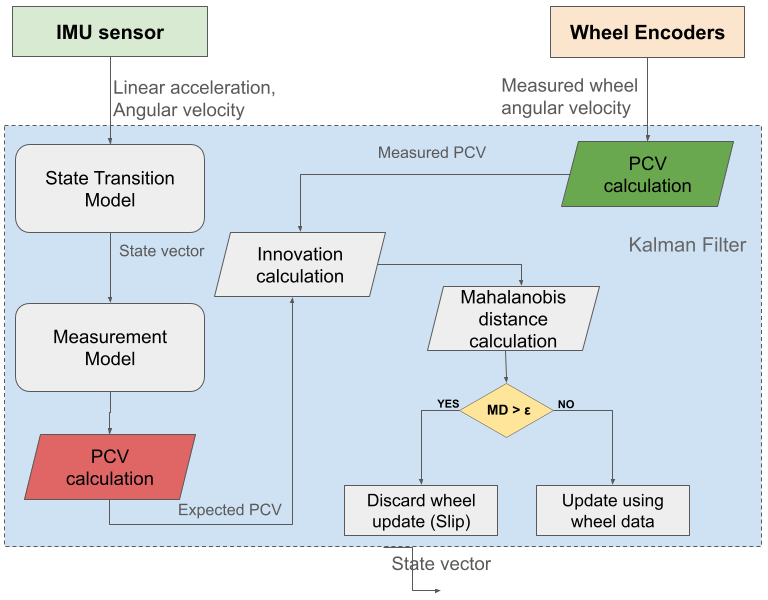
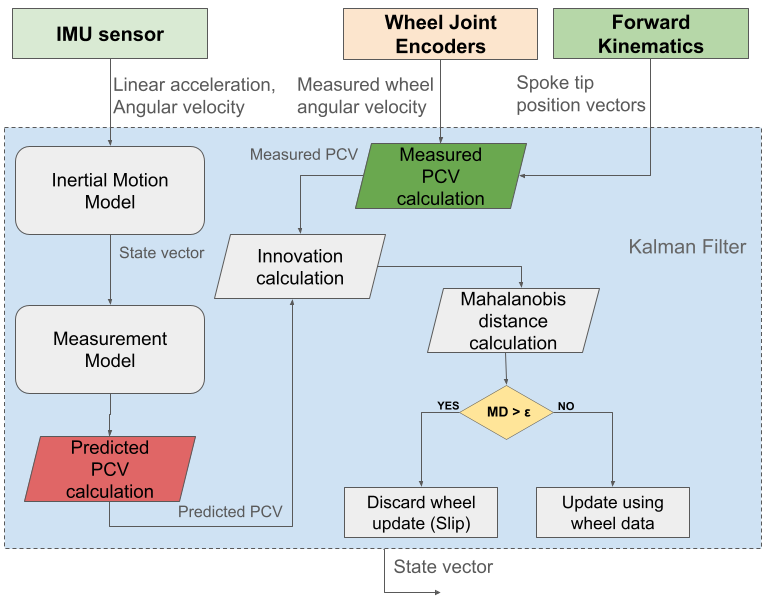
[quick-commit] started implementation chapter and include the UML diagram for the proposed apporach

diff --git a/chapters/ch05_methodology.tex b/chapters/ch05_methodology.tex
@@ -3,39 +3,40 @@
 \begin{document}
     \chapter{Methodology} \label{chap:methodology}
     
-    This chapter provides details on the proposed approach to the odometry estimation problem mentioned in the problem statement Chapter~\ref{chap:problem_statement}. The details of \gls{inekf}-based odometry, the proposed measurement update step for the \gls{inekf}, the Mahalanobis-distance-based measurement rejection, the contact spoke estimation, and the limitations of the proposed approach are presented in this chapter. The overview of the approach is explained in Section~\ref{sec:approach_overview}.
-    
+    This chapter provides details on the proposed approach to improve the odometry estimation in the coyote~3 rover system. The details of \gls{inekf}-based odometry, the proposed measurement update step for the \gls{inekf}, the Mahalanobis-distance-based measurement rejection, the contact spoke estimation, and an overview of the proposed approach are presented in this chapter. 
     
     \section{Overview of the Proposed Approach} \label{sec:approach_overview}
     
-    
-    \todo[inline]{USE the image with the coordinate frame here}
-
     \begin{figure}[!h]
-        \includegraphics[width=\linewidth]{media/plots/thesis_proposed_approach.png}
-        \caption{Overview of the proposed approach for Contact Velocity Odometry estimation}
+        \begin{center}
+        \includegraphics[width=0.8\linewidth]{media/plots/thesis_proposed_approach.png}
+        \caption{Flow diagram to present an overview of the proposed approach.}
         \label{fig:proposedApproachOverviewFlowDiagram}
+        \end{center}
     \end{figure}
     
-    \todo[inline]{Flow diagram need to be explained}
-
+    \todo[inline]{Make this flow diagram standard and use the caption to link to different section that is show in the chart and that is explained below}
     
     \begin{figure}[!h]
-        \includegraphics[width=\linewidth]{media/plots/approach_explanation_image.png}
-        \caption{Predicted and Measured PCV overlaid on a wheel}
+        \begin{center}
+        \includegraphics[width=0.8\linewidth]{media/plots/approach_explanation_plot.png}
+        \caption{Predicted and Measured PCV overlaid on the Front Left wheel of the Coyote~3 rover.}
         \label{fig:approachPCVexplanation}
+        \end{center}
     \end{figure}
     
-    The proposed approach uses IMU data to propagate the filter state and wheel encoder data to construct the measured PCV. This section explains the intuition behind the proposed approach. The predicted \gls{pcv} vector is calculated for every spoke of each wheel. To simplify the explanation, only one wheel and its spokes are considered here.
+    The proposed approach uses \gls{imu} data to propagate the filter state and joint encoder data to construct the measured PCV. This section explains the intuition behind the proposed approach. The predicted \gls{pcv} vector is calculated for every spoke of each wheel. To simplify the explanation, only one wheel and its spokes are considered here. Figure~\ref{fig:proposedApproachOverviewFlowDiagram} presents a flow diagram, providing an outline of the proposed approach, the simplified calculation blocks inside the \gls{inekf}, the data flow from sensors and kinematics into the \gls{inekf} and the inconsistent wheel measurement rejection approach.
     
     Let us take a scenario where the rover moves forward while rotating slightly on its yaw (vertical) axis, so the trajectory from the top-view looks like a part of a circle. During this motion, we need to estimate the position and orientation of the rover in the world frame. The origin of the world frame, also referred to as the odometry frame, usually lies at the location where the rover starts its motion.
     
-    The \gls{inekf} estimates the pose of the rover and other elements in its state vector \ref{eq:stateVector}. To estimate these elements, the filter uses the \gls{imu} data to propagate the state vector elements forward in time. Let us define this propagated state $\hat{X}^{-}_{k+1}$ at the time step $k+1$. Let the current state be $X_{k}$ and the current time step be $k$. This propagation of state is done using an inertial motion model driven by the \gls{imu} measurement. This motion model uses the bias corrected gyroscope and accelerometer values to update the orientation, position and velocity of the rover. Since, this predicted state is calculated only with \gls{imu} driven motion model, it accumulates error due to sensor drift. This error needs to be corrected by an independent measurement source. In the proposed approach the correction is done using the wheel encoder measurements.
+    The \gls{inekf} estimates the pose of the rover and other elements in its state vector \ref{eq:stateVector}. To estimate these elements, the filter uses the \gls{imu} data to propagate the state vector elements forward in time. Let us define this propagated state $\hat{X}^{-}_{k+1}$ at the time step $k+1$. Let the current state be $X_{k}$ and the current time step be $k$. This propagation of state is done using an inertial motion model driven by the \gls{imu} measurement. This motion model uses the bias corrected gyroscope and accelerometer values to update the orientation, position and velocity of the rover. Since, this predicted state is calculated only with \gls{imu} driven motion model, it accumulates error due to sensor drift. This error needs to be corrected by an independent measurement source. In the proposed approach the correction is done using the joint encoder measurements.
+    
+    Figure~\ref{fig:approachPCVexplanation} presents the front left wheel of the Coyote~3 rover and the body frame coordinate system. The wheel is rotation in the clock-wise direction resulting in rover moving forward. The purpose of this figure is to show the predicted and measured \gls{pcv} vectors expressed in body frame so that it may improve the understanding of the following explanations. 
     
     Using the predicted state $\hat{X}^{-}_{k+1}$, the velocity of each spoke tip can be calculated in the body frame. The details of the predicted \gls{pcv} are provided in Section~\ref{subsec:predictedPCV}.
-    To understand the predicted \gls{pcv}, we calculate the velocity that each spoke tip would have due to the predicted body linear velocity, the bias-corrected body angular velocity from \gls{imu}, and the spoke-tip position relative to the body frame. This calculation generates a velocity vector for each spoke tip of the selected wheel, shown as red arrows in Figure~\ref{fig:approachPCVexplanation}.  \todo[inline]{Modify the description of velocity vectors when the image is updated}
+    To understand the predicted \gls{pcv}, we calculate the velocity that each spoke tip would have due to the predicted body linear velocity, the bias-corrected body angular velocity from \gls{imu}, and the spoke-tip position relative to the body frame. This calculation generates a velocity vector for each spoke tip of the selected wheel, shown as red arrows in Figure~\ref{fig:approachPCVexplanation}. 
     
-    To correct the predicted state $\hat{X}^{-}_{k+1}$, the measured \gls{pcv} is calculated using the wheel encoder measurements. The details of the measured \gls{pcv} are provided in Section~\ref{subsec:measuredPCV}. Similar to the predicted \gls{pcv}, we calculate the measured \gls{pcv} for all the spokes of a wheel. The measured \gls{pcv} is calculated from the wheel angular velocity about its rotation axis and the position vector from the wheel center to the spoke tip. The resulting measured \gls{pcv} points along the direction of wheel rotation and is perpendicular to the position vector from the wheel center to the spoke tip. These vectors are shown as the green arrow in Figure~\ref{fig:approachPCVexplanation}. This measured \gls{pcv} is initially expressed in the wheel frame and later transformed into the body frame.
+    To correct the predicted state $\hat{X}^{-}_{k+1}$, the measured \gls{pcv} is calculated using the joint encoder measurements. The details of the measured \gls{pcv} are provided in Section~\ref{subsec:measuredPCV}. Similar to the predicted \gls{pcv}, we calculate the measured \gls{pcv} for all the spokes of a wheel. The measured \gls{pcv} is calculated from the wheel angular velocity about its rotation axis and the position vector from the wheel center to the spoke tip. The resulting measured \gls{pcv} points along the direction of wheel rotation and is perpendicular to the position vector from the wheel center to the spoke tip. These vectors are shown as the green arrow in Figure~\ref{fig:approachPCVexplanation}. This measured \gls{pcv} is initially expressed in the wheel frame and later transformed into the body frame.
         
     Once both the predicted and measured \gls{pcv} are calculated, the spokes assumed to be in contact need to be selected and used to update the state vector. This can be done in two ways as explained in Section~\ref{sec:ContactEstimation}. The proposed approach uses the \gls{lf} method to select the spokes that are used in the filter update step. These selected spoke are used to calculate the residual as discussed in Section~\ref{subsec:residual}. After the residual is calculated, the covariance of the residual is calculated using Equation~\ref{eq:innovationCovariance}. This covariance is then used to calculate the squared Mahalanobis distance. This distance represents how surprised the filter is to receive the measured \gls{pcv}. 
     
@@ -43,23 +44,18 @@
     
     The calculated \gls{md} is also used to estimate the spokes that are likely to be in contact. The spoke with the lowest \gls{md} is selected to be most likely in contact. This can be seen in Figure~\ref{fig:approachPCVexplanation}, where the spoke estimated to be in contact with the ground has the predicted and measured \gls{pcv} vectors that are consistent with each other. This is reflected by a low residual and a low \gls{md} value. The other spokes that have inconsistent predicted and measured \gls{pcv} vectors have higher residuals and higher \gls{md} values. The contact estimation is explained in detail in Section~\ref{subsec:mahala-based-contact-estimation}. 
     
-    In the implemented filter update, the \gls{lf} method is used to select the contact spokes. The \gls{md} is then used to reject inconsistent spoke measurements before the update. In addition, the \gls{md} values can also be used as an alternative contact estimation measure, as explained in Section~\ref{subsec:mahala-based-contact-estimation}.
-    
-    
+    In the implemented filter update, the \gls{lf} method is used to select the contact spokes. The \gls{md} is then used to reject inconsistent spoke measurements before the update. In addition, the \gls{md} values based contact estimation is a possible alternative, as explained in Section~\ref{subsec:mahala-based-contact-estimation}.
     
     \section{Invariant EKF based Odometry}
     
-    The \gls{inekf} is an extension of the Extended Kalman Filter whose state evolve on Lie groups. In the \gls{inekf}, the estimation error is defined as an invariant error formulation, such as left or right invariant error rather than Euclidean vector subtraction. The details on the \gls{inekf} and the invariant error are explained in Chapter~\ref{chap:background}. 
+    The \gls{inekf} is an extension of the Extended Kalman Filter whose state evolve on Lie groups. In the \gls{inekf}, the estimation error is defined as an invariant error formulation, such as left or right invariant error rather than Euclidean vector subtraction. The details on the \gls{inekf} and the invariant error are explained in Chapter~\ref{chap:background}. The proposed approach for odometry estimation in \gls{rwr} uses the proprioceptive sensors available on the rover. The \gls{imu} and the joint encoders are used in the fusion process. Kalman filters operate in two steps: the propagation step and the correction step. In this thesis, we use the \gls{imu} data for the propagation step and the joint encoder data is used to construct the measurement used in the correction step. The \gls{inekf} estimates the pose of the rover's body frame with respect to the world frame, the velocity of the rover and the \gls{imu} biases. The filter's state vector and the details on the propagation step are provided in the following subsections.
     
     % This makes the estimation error independent of the frame of reference. The invariance property of the \gls{inekf} is explained in Chapter~\ref{chap:background}. 
         
     % The advantage of using \gls{inekf} over standard EKF is that the \gls{inekf} has better convergence properties.
     
     % \todo[inline]{The invariance part needs to be explained, and the explanation related to Lie group and their advantage should also be explained with reference }
-    
-    
-    The proposed approach for odometry estimation in \gls{rwr} uses the proprioceptive sensors available on the rover. The \gls{imu} and the wheel encoders are used in the fusion process. Kalman filters operate in two steps: the propagation step and the correction step. In this thesis, we use the \gls{imu} data for the propagation step and the wheel encoder data is used to construct the measurement used in the correction step. The \gls{inekf} estimates the pose of the rover's body frame with respect to the world frame, the velocity of the rover and the \gls{imu} biases. The filter's state vector and the details on the propagation step are provided in the following subsections.
-
+        
     \subsection{Filter State Vector}    
     The state vector $X$ contains the quantities that need to be estimated by the filter. In this work, the state vector contains position, orientation, velocity and \gls{imu} sensor biases. These quantities are required to estimate the rover motion. The filter state is constructed as shown in the Equation~\ref{eq:stateVector}. 
     
@@ -75,7 +71,7 @@
     
     \section{Measurement Update Step}
     
-    This section presents the core methodology of the proposed approach. For the fusion process, the \gls{pcv} vector is calculated. This is the velocity of a wheel spoke tip expressed in the body frame in a \gls{rwr} system. The \gls{pcv} can also be referred to as spoke-tip velocity or contact velocity. The term "Potential" comes from the possibility that any one of the spokes in a wheel can be in contact depending on the terrain. The \gls{pcv} is calculated in two forms. The \gls{pcv} vector, calculated from the filter state vector, after the prediction step of the \gls{inekf} is called predicted \gls{pcv}. In the update step, the \gls{pcv} vector is calculated from the wheel encoder measurements called measured \gls{pcv}. Within the \gls{inekf}, the predicted and measured \gls{pcv} vectors are used to calculate the residual, also known as the innovation.
+    This section presents the core methodology of the proposed approach. For the fusion process, the \gls{pcv} vector is calculated. This is the velocity of a wheel spoke tip expressed in the body frame in a \gls{rwr} system. The \gls{pcv} can also be referred to as spoke-tip velocity or contact velocity. The term "Potential" comes from the possibility that any one of the spokes in a wheel can be in contact depending on the terrain. The \gls{pcv} is calculated in two forms. The \gls{pcv} vector, calculated from the filter state vector, after the prediction step of the \gls{inekf} is called predicted \gls{pcv}. In the update step, the \gls{pcv} vector is calculated from the joint encoder measurements called measured \gls{pcv}. Within the \gls{inekf}, the predicted and measured \gls{pcv} vectors are used to calculate the residual, also known as the innovation.
     
     \subsection{Predicted Potential Contact Velocity} \label{subsec:predictedPCV}
     
@@ -107,7 +103,6 @@
         v_{pc, measured}^{body} = R_{wheel}^{body} (\omega_{wheel}^{wheel} \times {}^{}r_{pc}^{wheel})
         \label{eq:MeasuredPCVCalculation}
     \end{equation}
-    
 
     From the rover's body frame of reference, $v_{pc, measured}^{body}$ represents the velocity of the ground moving under the point of contact. This is the same quantity as the $v_{pc, predicted}^{body}$, so the difference between them can be calculated as the residual. The $\omega_{wheel}^{wheel}$ is the angular velocity of the wheel expressed in the wheel frame. The $r_{pc}^{wheel}$ is the position vector of the \gls{pc} from the wheel center expressed in the wheel frame. $R_{wheel}^{body}$ is the orientation of the wheel frame expressed in the body frame.
       
@@ -137,7 +132,6 @@
             \label{eq:gyroBiasRemoved}
         \end{equation}
 
-    
         \begin{equation}
             \xi = \begin{bmatrix}
             \delta R \\
@@ -171,16 +165,16 @@
         \end{equation}
         
         The validity of the measurement Jacobian is verified by comparing the analytical Jacobian with a numerical Jacobian. The numerical Jacobian is calculated by perturbing the state vector and calculating the change in the measurement function. The analytical and numerical Jacobians are found to be consistent with each other. The numerical jacobian calculation is provided in the appendix \ref{appendix:NumericalJacobianCalculation}. 
-        \todo[inline]{Provide the numerical jacobian calculation in the appendix}
+        % \todo[inline]{Provide the numerical jacobian calculation in the appendix}
        
         \section{Slip-aware Measurement Rejection}
         
-        The measured \gls{pcv}, calculated from the wheel encoder measurements, can be affected by wheel slip. This wheel slip can occur due to several factors such as slippery terrain, compliant terrain like soft sand, loose and uneven terrain like pebbles, inclined terrain, very high wheel speeds or a combination of these factors. The nature of slip and the details required to understand the wheel slip is discussed in Chapter~\ref{chap:background}. 
+        The measured \gls{pcv}, calculated from the joint encoder measurements, can be affected by wheel slip. This wheel slip can occur due to several factors such as slippery terrain, compliant terrain like soft sand, loose and uneven terrain like pebbles, inclined terrain, very high wheel speeds or a combination of these factors. The nature of slip and the details required to understand the wheel slip is discussed in Chapter~\ref{chap:background}. 
         
-        In the \gls{inekf} framework, the slip-induced inconsistencies may be identified when the measured \gls{pcv} vector calculated from the wheel encoders is inconsistent with the predicted \gls{pcv} computed from the filter state. This inconsistency can be calculated using the \gls{md}. 
+        In the \gls{inekf} framework, the slip-induced inconsistencies may be identified when the measured \gls{pcv} vector calculated from the joint encoders is inconsistent with the predicted \gls{pcv} computed from the filter state. This inconsistency can be calculated using the \gls{md}. 
         
-        The \gls{md} measures residual between a measurement and its predicted values weighted by the inverse residual covariance \cite{SITE-mathworks-mahalanobis}. The residual calculated in Section~\ref{subsec:residual} is used to calculate the \gls{md}. When the squared \gls{md} is higher than a threshold value (details are provided in the Implementation Chapter~\ref{chap:implementation})\todo[inline]{Include the chi2 threshold in the implementation chapter} then the measured \gls{pcv} is rejected from the update step, thereby preventing the inconsistent wheel encoder measurements from a slip event \cite{chang2014MahalanobisFormula}.
-        
+        The \gls{md} measures residual between a measurement and its predicted values weighted by the inverse residual covariance \cite{SITE-mathworks-mahalanobis}. The residual calculated in Section~\ref{subsec:residual} is used to calculate the \gls{md}. When the squared \gls{md} is higher than a threshold value (details are provided in the Implementation Chapter~\ref{chap:implementation}) then the measured \gls{pcv} is rejected from the update step, thereby preventing the inconsistent joint encoder measurements from a slip event \cite{chang2014MahalanobisFormula}.
+        % \todo[inline]{Include the chi2 threshold in the implementation chapter}
         \begin{equation}
         S = HPH^T + R
         \label{eq:innovationCovariance}
@@ -200,19 +194,17 @@
         \subsection{Lowest-Foot-based Contact Estimation}
         
         A geometrical method of estimating the contact spoke is by using the assumption that the spoke tip that has the lowest vertical position is in contact. This can be estimated using the robot kinematics and the joint positions of the wheel. The pose of each spoke with respect to the body frame can be calculated and the spoke in contact can be estimated. The \gls{rw} is constructed with five spokes so, geometrically there could be either one spoke in contact or two. The lowest-foot assumption can estimate only one foot as contact. For multi contact spoke estimation, we assumed a region of vertical position, if the spoke tip is within this region, then it is estimated as in contact. This assumption works well on a flat, solid terrain but on an inclined or rough terrain with obstacles, this assumption may not hold.
-                
               
         \subsection{Mahalanobis-Distance-based Contact Estimation} \label{subsec:mahala-based-contact-estimation}
         
-        The use of \gls{inekf} for odometry estimation provides an opportunity to estimate the spokes that are in contact. With the \gls{md} squared calculated in the previous section, the contact spokes can be estimated by calculating the \gls{md} squared value for each spoke and selecting the spoke with the lowest \gls{md} squared as the spoke in contact. This is based on the fact that, the spoke with lowest \gls{md} squared value's predicted and measured \gls{pcv} will be consistent compared to the other spokes with higher \gls{md} squared value. This method can also be used to estimate multiple contact spokes by selecting the spokes with \gls{md} squared value below a certain threshold. 
+        The use of \gls{inekf} for odometry estimation provides an opportunity to estimate the spokes that are in contact. With the \gls{md} squared calculated in the previous section, the contact spokes can be estimated by calculating the \gls{md} squared value for each spoke and selecting the spoke with the lowest \gls{md} squared as the spoke in contact. This is based on the fact that, the spoke with lowest \gls{md} squared value's predicted and measured \gls{pcv} will be consistent compared to the other spokes with higher \gls{md} squared value. This method can also be used to estimate multiple contact spokes by selecting the spokes with \gls{md} squared value below a certain threshold. The implementation details related to the approach discussed in this chapter is presented in the Implementation Chapter~\ref{chap:implementation}.
         
-        \todo[inline]{Do we need more explanation on the contact estimation? Probably}
-        
-        
+        % \todo[inline]{Do we need more explanation on the contact estimation? Probably}
+                
 
-        \section{Limitations of the Proposed Approach}
+        % \section{Limitations of the Proposed Approach}
         
-        The limitations of the proposed approach are discussed in this section. 
+        % The limitations of the proposed approach are discussed in this section. 
 
         
         

diff --git a/chapters/ch08_results_and_discussion.tex b/chapters/ch08_results_and_discussion.tex
@@ -4,42 +4,7 @@
     \chapter{Evaluation and Results} \label{chap:resultsanddiscussion}
     This chapter provides the information on the experimental setup and evaluation techniques used to evaluate the Contact Velocity Odometry.
 
-    \section{Experiment Description}
-
-    The Experimentation to evaluate the proposed approach is done by collecting the data using the Coyote3 rover in a set of trajectories. This data collection also contains the VICON motion capture system data. The Evaluation is done by comparing the estimated odometry samples and the pose estimates from the VICON system. 
-    
-    Multiple experiments are conducted and the IMU sensor and joint encoder sensor data is collected. This data is later used in Contact Velocity Odometry estimation. 
-    
-    \subsection{Rover description}
-    
-    The coyote3 rover used in the experiments have four rimless wheels, a Xsens Mti680(G) IMU sensor, Joint encoders \todo[inline]{add the make and model of the joint encoder} the rover is controlled using an Xbox gamepad. Two LiPo batteries are used to power the rover. 
-    
-    The rimless wheels are equipped with rubber feet for better friction with the ground and also to provide suspension for the wheels. The coyote system does not have a suspension system so the forces during the contact phase of the wheels are directly felt by the IMU. The rubber foot smoothens this effect. 
-    
-    \subsection{Experiment site explanation}
-    
-    Two locations at DFKI RIC Bremen, is used as experiment sites, Both location are indoors so the GPS/GNSS data cannot be used. The first experiment site is the Multi Function Hall(MFH) and the second one is called the Space Hall/ Crater Hall. 
-    
-    In MFH, the floor is solid and concrete and in the space hall, the floor is made of very fine sand \todo[inline]{include the exact description about the sand} and there is a moon crater replica in the space hall.
-    
-    Both of the experiment site is covered by the VICON motion capture system. 
-    
-    In the MFH, Approximately, 5mx5m area is chosen as the experiment site \ref{fig:Multi Function Hall experiment area}. There are 19 experiments conducted in the MFH and 17 of those experiments are repeated three times. In total, 53 set of experimental data is available from the MFH experiments.
-    
-    In the Space Hall, the area with sand\ref{fig:Space Hall experiment area} is chosen as the experiment site. There are 11 experiments conducted in the space hall including the crater area. Out of 11, there are 8 experiments with 3 repetitions, there is one type of experiment on the crater with 4 repetitions and two more experiments in the sand without repetitions. In total, 30 set of experimental data is available from the Space Hall experiments. 
-    
-    \begin{figure}
-        \includegraphics[width=\linewidth]{media/images/MFH_experiment_area.png}
-        \caption{The Multi Function Hall area where the experiments are conducted }
-        \label{fig:Multi Function Hall experiment area}
-    \end{figure}
-    
-    \begin{figure}
-        \includegraphics[width=\linewidth]{media/images/spaceHall_experiment_area.jpg}
-        \caption{The sand area in the Space Hall where the experiments are conducted }
-        \label{fig:Space Hall experiment area}
-    \end{figure}
-
+ 
     \section{Results}
 
     Describe the results of your experiments in detail.

diff --git a/chapters/ch07_experimentation_and_evaluation.tex b/chapters/ch07_experimentation_and_evaluation.tex
@@ -3,6 +3,41 @@
 \begin{document}
     \chapter{Experiment and evaluation} \label{chap:experimentandevaluation}
     
+    \section{Experiment Description}
+
+    The Experimentation to evaluate the proposed approach is done by collecting the data using the Coyote3 rover in a set of trajectories. This data collection also contains the VICON motion capture system data. The Evaluation is done by comparing the estimated odometry samples and the pose estimates from the VICON system. 
     
+    Multiple experiments are conducted and the IMU sensor and joint encoder sensor data is collected. This data is later used in Contact Velocity Odometry estimation. 
+    
+    \subsection{Rover description}
+    
+    The coyote3 rover used in the experiments have four rimless wheels, a Xsens Mti680(G) IMU sensor, Joint encoders \todo[inline]{add the make and model of the joint encoder} the rover is controlled using an Xbox gamepad. Two LiPo batteries are used to power the rover. 
+    
+    The rimless wheels are equipped with rubber feet for better friction with the ground and also to provide suspension for the wheels. The coyote system does not have a suspension system so the forces during the contact phase of the wheels are directly felt by the IMU. The rubber foot smoothens this effect. 
+    
+    \subsection{Experiment site explanation}
+    
+    Two locations at DFKI RIC Bremen, is used as experiment sites, Both location are indoors so the GPS/GNSS data cannot be used. The first experiment site is the Multi Function Hall(MFH) and the second one is called the Space Hall/ Crater Hall. 
+    
+    In MFH, the floor is solid and concrete and in the space hall, the floor is made of very fine sand \todo[inline]{include the exact description about the sand} and there is a moon crater replica in the space hall.
+    
+    Both of the experiment site is covered by the VICON motion capture system. 
+    
+    In the MFH, Approximately, 5mx5m area is chosen as the experiment site \ref{fig:Multi Function Hall experiment area}. There are 19 experiments conducted in the MFH and 17 of those experiments are repeated three times. In total, 53 set of experimental data is available from the MFH experiments.
+    
+    In the Space Hall, the area with sand\ref{fig:Space Hall experiment area} is chosen as the experiment site. There are 11 experiments conducted in the space hall including the crater area. Out of 11, there are 8 experiments with 3 repetitions, there is one type of experiment on the crater with 4 repetitions and two more experiments in the sand without repetitions. In total, 30 set of experimental data is available from the Space Hall experiments. 
+    
+    \begin{figure}
+        \includegraphics[width=\linewidth]{media/images/MFH_experiment_area.png}
+        \caption{The Multi Function Hall area where the experiments are conducted }
+        \label{fig:Multi Function Hall experiment area}
+    \end{figure}
+    
+    \begin{figure}
+        \includegraphics[width=\linewidth]{media/images/spaceHall_experiment_area.jpg}
+        \caption{The sand area in the Space Hall where the experiments are conducted }
+        \label{fig:Space Hall experiment area}
+    \end{figure}
+
     
 \end{document}

diff --git a/chapters/ch01_introduction.tex b/chapters/ch01_introduction.tex
@@ -3,11 +3,21 @@
 \begin{document}
     \chapter{Introduction} \label{chap:introduction}
 
-    For any mobile robot, a reliable estimate of its pose relative to its environment is crucial for autonomous navigation. In general, mobile robots estimate their pose based on the incremental motion calculated using proprioceptive sensors such as \gls{imu} and wheel encoders. 
-    \todo[inline]{This sentence needs citation/ source}
-    This pose estimation technique is called dead-reckoning based odometry. In robotic platforms with limited onboard computational power, this method of odometry is particularly important due to its simplicity and computational efficiency \cite{Agostinho2022}. This approach is vital in scenarios where positioning systems like \gls{gps}/\gls{gnss} and Motion capture systems are unavailable. The odometry estimate based on a single source of odometry is susceptible to sensor drift over time and wheel slip related errors.
+    \todo[inline]{Fix the comments from Raul}
+        
+    For any mobile robot, a reliable estimate of its pose relative to its environment is crucial for autonomous navigation. In general, mobile robots estimate their pose based on integrating the incremental motion calculated using proprioceptive sensors such as \gls{imu} and wheel encoders~\cite{Siegwart2011}. This pose estimation technique is called dead-reckoning based odometry. In robotic platforms with limited onboard computational power, this method of odometry is particularly important due to its simplicity and computational efficiency \cite{Agostinho2022}. This approach is vital in scenarios where positioning systems like \gls{gps}/\gls{gnss} and Motion capture systems are unavailable.
     
-    While these errors are prevalent across mobile robots, their effects are particularly evident in the systems operating in slip-prone terrain. One such system is the Coyote~3 rover. \todo[inline]{Include an image of coyote~3 without arm} This rover uses a non-traditional wheel type, the \gls{rw}, which is a hybrid between wheeled and legged locomotion. The spokes provide a foot-like terrain interaction while the overall wheel structure keeps the motion and control simple. These rovers, due to their spoked wheels, can traverse diverse terrains like soft and coarse sand terrain, rocky terrain and inclined terrain. Unlike traditional wheeled rovers, rimless wheeled rovers can overcome challenging obstacles effectively \cite{Brinkmann2018}.
+    \begin{figure}[!ht]
+        \begin{center}
+            \includegraphics[width=0.5\linewidth]{media/images/coyote3_with_vicon_markers_in_sand.jpg}
+            \caption{Coyote~3 rover with reflective markers in a sand terrain used in the experiments for this thesis.}
+            \label{fig:coyote3_with_vicon_markers}
+        \end{center}
+    \end{figure}
+    
+    The odometry estimate based on a single source of odometry is susceptible to sensor drift over time and wheel slip related errors. While these errors are prevalent across mobile robots, their effects are particularly evident in the systems operating in slip-prone terrain.
+    
+    One such system is the Coyote~3 rover, shown in Figure~\ref{fig:coyote3_with_vicon_markers}. This rover uses a non-traditional wheel type, the \gls{rw}, which is a hybrid between wheeled and legged locomotion. The spokes provide a foot-like terrain interaction while the overall wheel structure keeps the motion and control simple. This rover, due to its spoked wheels, can traverse diverse terrains like soft and coarse sand terrain, rocky terrain and inclined terrain. Unlike traditional wheeled rover, \gls{rwr} can overcome challenging obstacles effectively \cite{Brinkmann2018}.
     
     This hybrid locomotion capability of the \gls{rwr} system comes at a cost. The spokes of the \gls{rwr} system change the wheel-ground interaction from smooth rolling motion to discontinuous contact-based motion. The current baseline odometry in the Coyote~3 rover assumes a circular wheel model and uses wheel odometry for translational estimation and \gls{imu} data for orientation estimation. Since the translation and rotation are decoupled, this is commonly referred to as decoupled odometry. This approach provides a simple means of odometry estimation without complex state estimation techniques. Any slippage that occurs when traversing slip-prone terrain is not accounted for and the pose error from the slippage propagates to the odometry estimate. To address this problem, sensor fusion techniques are often employed.
     

diff --git a/chapters/ch06_implementation.tex b/chapters/ch06_implementation.tex
@@ -2,7 +2,18 @@
 \documentclass[report.tex]{subfiles}
 \begin{document}
     \chapter{Implementation} \label{chap:implementation}
+    
+    To test the proposed methodology, the approach is implemented in the Coyote~3 rover system and tested in a lab environment. This chapter provides the details on the rover specific software implementation, 
 
+    
+    \begin{figure}[!ht]
+    \centering
+    \includegraphics[width=\linewidth]{media/plots/implementation_uml_1.15x.pdf}
+    \caption{UML diagram showing the implementation of the proposed approach in the Coyote~3 rover system.}
+    \label{fig:implementation_uml}
+    \end{figure}
+        
+    
     \section{Implementation details}
         
     \subsection{Setup}
@@ -17,8 +28,7 @@
         \item \todo[inline]{add the cpu specs of the coyote rover}
 
     \end{itemize} 
-    
-    
+
     
     \subsection {Predicted PCV}
     
@@ -48,6 +58,8 @@
             The fixed wheel frames are added in the robot URDF model at the location of motors. This fixed wheel frames have the same pose as the initial pose of the rotating wheel frame. The fixed wheel frames are added to get the position vector to the spoke of the wheel from the center of the wheel. These position vectors are later used to calculate the measured \gls{pcv}. This is the only purpose of the fixed wheel frames. 
     
 
+    
+            
     
     
 \end{document}

diff --git a/report.tex b/report.tex
@@ -18,6 +18,10 @@
 \usepackage[acronym,nomain,nonumberlist]{glossaries}
 \usepackage{etoolbox}
 
+\usepackage{tikz}
+\usepackage{circuitikz}
+\usetikzlibrary{positioning, arrows.meta}
+
 
 % *****************************************************
 % ADD YOUR ACRONYMS HERE

diff --git a/things_todo_report.md b/things_todo_report.md
@@ -6,27 +6,10 @@
 ## Methodology
 
 
-\section{Slip-Aware Measurement Rejection}
-Explain the idea of rejecting inconsistent wheel measurements.
-Describe the use of innovation uncertainty / Mahalanobis distance at concept level.
-State that wheel updates are rejected when the measurement is inconsistent with the filter prediction.
-
-\section{Contact-State Estimation}
-Explain how the contact state of spokes is inferred.
-Keep it algorithmic, not code-specific.
-Describe how innovation consistency is used to estimate likely contacting spokes.
-
-\section{Assumptions and Limitations of the Method}
-Mention assumptions such as:
-known kinematic model, known spoke geometry, encoder reliability except during slip, approximate contact model, and dependency on covariance tuning.
-
-
 ## Implementation chapter
 - include the noise parameter units and how those parameters can be taken from the IMU data sheet
-  
-  
-  
+
   
 ## Possible questions:
 - how the noise of wheel encoders modelled? is it used anywhere? should that not play a role somewhere?
-- 
+